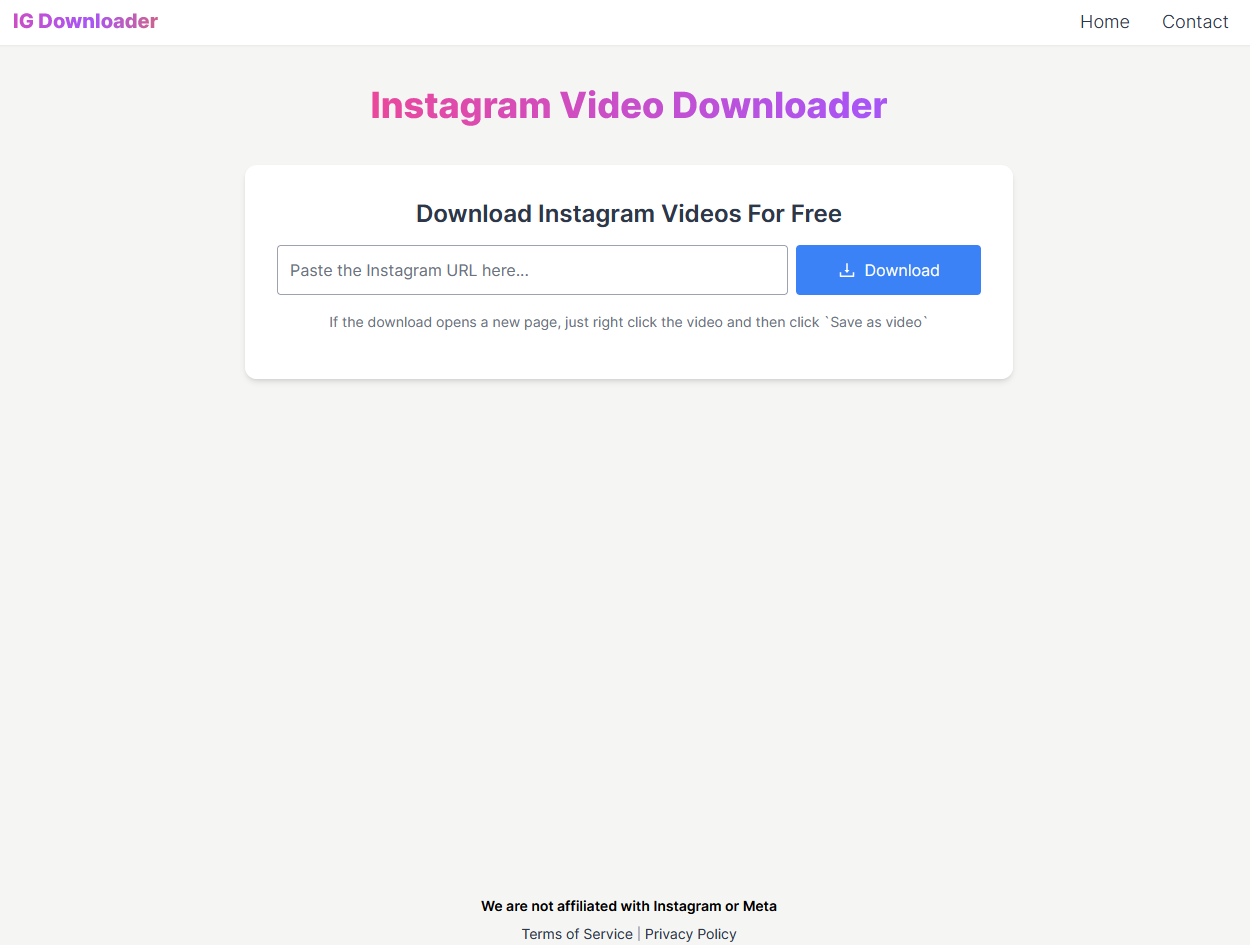
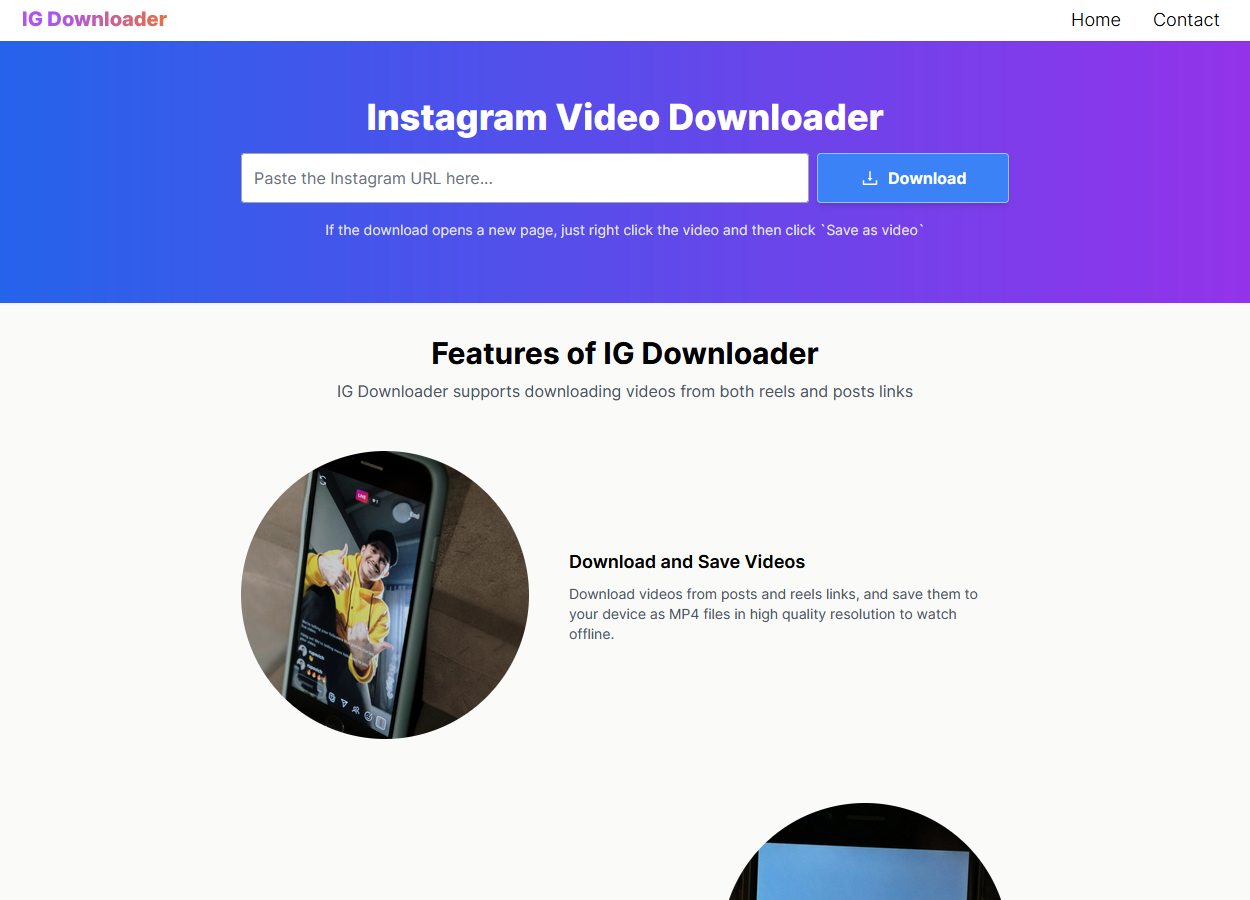
Update UI and Layout updates and changes to style.

diff --git a/src/app/page.tsx b/src/app/page.tsx
@@ -1,26 +1,223 @@
+import Image from "next/image";
+
 import InstagramForm from "@/components/instagram/InstagramForm";
 import { cn } from "@/utils";
 
 export default function HomePage() {
   return (
-    <main className="mx-auto flex w-full max-w-6xl flex-1 flex-col items-center gap-8">
-      <h1
+    <main className="flex w-full flex-1 flex-col items-center gap-8">
+      <div
+        id="#download"
         className={cn(
-          "py-2 text-center text-2xl font-extrabold sm:text-4xl",
-          "animate-rgb bg-gradient-to-r from-pink-500 via-purple-500 to-orange-500 bg-clip-text text-transparent"
+          "flex w-full flex-col items-center px-4 py-12 shadow-sm",
+          "bg-gradient-to-r from-blue-600 to-purple-600"
         )}
       >
-        Instagram Video Downloader
-      </h1>
-      <div className="mx-auto w-full max-w-3xl bg-white p-8 shadow-md md:rounded-xl">
-        <h2 className="mb-4 text-center text-lg font-semibold text-primary sm:text-2xl">
-          Download Instagram Videos For Free
-        </h2>
+        <h1
+          className={cn(
+            "py-2 text-center text-2xl font-extrabold text-white sm:text-4xl"
+          )}
+        >
+          Instagram Video Downloader
+        </h1>
         <InstagramForm />
-        <p className="my-4 text-center text-xs text-secondary md:text-sm">
+        <p className="my-4 text-center text-xs text-gray-200 md:text-sm">
           If the download opens a new page, just right click the video and then
           click `Save as video`
         </p>
+      </div>
+
+      <div className="container mx-auto flex w-full flex-col items-center">
+        <section id="#features" className="flex w-full flex-col items-center">
+          <header className="mb-12 flex w-full flex-col items-center text-center">
+            <h2 className="mb-2 text-xl font-bold md:text-3xl">
+              Features of IG Downloader
+            </h2>
+            <p className="text-gray-600">
+              IG Downloader supports downloading videos from both reels and
+              posts links
+            </p>
+          </header>
+
+          <div className="mb-16 flex w-full max-w-3xl flex-col items-center gap-2 md:flex-row md:gap-8">
+            <Image
+              src="/images/features/download.jpg"
+              width={0}
+              height={0}
+              sizes="100%"
+              quality={100}
+              alt="instagram"
+              className="h-72 w-full flex-shrink-0 object-cover md:w-72 md:rounded-full"
+            />
+            <div className="w-full px-2">
+              <h4 className="mb-2 text-lg font-semibold">
+                Download and Save Videos
+              </h4>
+              <p className="text-sm text-gray-600">
+                Download videos from posts and reels links, and save them to
+                your device as MP4 files in high quality resolution to watch
+                offline.
+              </p>
+            </div>
+          </div>
+          <div className="mb-16 flex w-full max-w-3xl flex-col items-center gap-2 md:flex-row md:gap-8">
+            <Image
+              src="/images/features/login.jpg"
+              width={0}
+              height={0}
+              sizes="100%"
+              quality={100}
+              alt="instagram"
+              className="h-72 w-full flex-shrink-0 object-cover md:order-2 md:w-72 md:rounded-full"
+            />
+            <div className="w-full px-2 md:order-1">
+              <h4 className="mb-2 text-lg font-semibold">
+                No Registration or Login Required
+              </h4>
+              <p className="text-sm text-gray-600">
+                No need to create an account or login to download videos. Just
+                copy the link, paste it in the box and click download.
+              </p>
+            </div>
+          </div>
+          <div className="flex w-full max-w-3xl flex-col items-center gap-2 md:flex-row md:gap-8">
+            <Image
+              src="/images/features/share.jpg"
+              width={0}
+              height={0}
+              sizes="100%"
+              quality={100}
+              alt="instagram"
+              className="h-72 w-full flex-shrink-0 object-cover md:w-72 md:rounded-full"
+            />
+            <div className="w-full px-2">
+              <h4 className="mb-2 text-lg font-semibold">
+                Share with Your Friends
+              </h4>
+              <p className="text-sm text-gray-600">
+                Download videos and save them on your device to share them with
+                your friends any time without the fear of losing your favorite
+                memes and funny videos.
+              </p>
+            </div>
+          </div>
+        </section>
+
+        <section
+          id="#what-is-ig-downloader"
+          className="my-12 flex w-full flex-col items-start px-4"
+        >
+          <h2 className="mb-2 text-lg font-semibold md:text-2xl">
+            What is IG Downloader
+          </h2>
+          <p className="text-sm md:text-base">
+            IG Downloader, an incredibly versatile tool, grants you the ability
+            to effortlessly download videos from Instagram posts and reels. With
+            its user-friendly interface and robust functionality, you can
+            seamlessly save these captivating videos to your device, ensuring
+            you always have access to your favorite Instagram content. This way,
+            you can easily share these videos with your friends or enjoy them
+            offline at your convenience, offering a delightful and flexible
+            Instagram experience tailored to your preferences.
+          </p>
+        </section>
+
+        <section
+          id="#how-to-use"
+          className="mb-12 flex w-full flex-col items-start px-4"
+        >
+          <h2 className="mb-2 text-lg font-semibold md:text-2xl">
+            How To Use IG Downloader
+          </h2>
+
+          <div>
+            <p className="mb-2">
+              <span className="font-bold">Step 1:</span>{" "}
+              <span className="text-sm">
+                First, go to Instagram and find the video that has captured your
+                attention, whether it&apos;s nestled within a post or part of an
+                engaging reel. Now, here&apos;s where the magic begins – simply
+                copy the video&apos;s link. You can achieve this by either
+                copying the link from your browser&apos;s URL bar or, for even
+                more convenience, click on those trusty three dots and select
+                &ldquo;Copy Link&ldquo;.
+              </span>
+            </p>
+            <p>
+              <span className="font-bold">Step 2:</span>{" "}
+              <span className="text-sm">
+                With the Instagram video link in your clipboard, head over to IG
+                Downloader and find the Input Box eagerly waiting for your
+                command. Paste the video link here with a simple Ctrl+V (or
+                Command+V for our Mac enthusiasts) and hit that
+                &ldquo;Download&ldquo; button.
+              </span>
+            </p>
+            <p className="mt-4 text-sm md:text-base">
+              And there you have it! With just these two straightforward steps,
+              you&apos;ve successfully summoned IG Downloader&apos;s wizardry to
+              save the desired video directly onto your device. Now, it&apos;s
+              ready to be shared with your friends, ensuring your social circle
+              can revel in the captivating content you&apos;ve discovered. Get
+              ready to embrace the world of hassle-free Instagram video
+              downloading!
+            </p>
+          </div>
+        </section>
+
+        <section
+          id="#why-ig-downloader-is-the-best"
+          className="mb-12 flex w-full flex-col items-start px-4"
+        >
+          <h2 className="mb-2 text-lg font-semibold md:text-2xl">
+            IG Downloader - The Best Instagram Video Downloader
+          </h2>
+          <p className="text-sm md:text-base">
+            IG Downloader is widely recognized as the premier Instagram video
+            downloader in the realm of digital tools and applications. This
+            exceptional software distinguishes itself by offering users the
+            remarkable ability to effortlessly download videos from both regular
+            posts and engaging reels links, enabling you to conveniently save
+            these captivating visual moments to your device in the universally
+            compatible MP4 format. What sets it apart even further is its
+            unwavering commitment to delivering content in the highest quality
+            resolution available, ensuring that you can enjoy your downloaded
+            videos offline, anytime, and, perhaps most impressively, all of this
+            comes at absolutely no cost to you.
+          </p>
+        </section>
+
+        <section
+          id="#can-be-used-on-mobile"
+          className="mb-12 flex w-full flex-col items-start px-4"
+        >
+          <h2 className="mb-2 text-lg font-semibold md:text-2xl">
+            Can I use IG Downloader on my Phone?
+          </h2>
+          <p className="text-sm md:text-base">
+            Certainly, you have the option to utilize the IG Downloader
+            application right from your smartphone, accessible through any web
+            browser of your choice. This convenient feature ensures that you can
+            easily access and use IG Downloader&apos;s functionality on your
+            mobile device, regardless of the browser you prefer to employ for
+            this purpose.
+          </p>
+        </section>
+
+        <section
+          id="#can-download-stories"
+          className="mb-12 flex w-full flex-col items-start px-4"
+        >
+          <h2 className="mb-2 text-lg font-semibold md:text-2xl">
+            Can I Download Stories on IG Downloader?
+          </h2>
+          <p className="text-sm md:text-base">
+            No, the action of downloading stories on IG Downloader is not
+            supported by the application due to its inherent limitations, as it
+            prioritizes user privacy and adheres to Instagram&pos;s policies and
+            security measures.
+          </p>
+        </section>
       </div>
     </main>
   );

diff --git a/src/components/instagram/InstagramForm.tsx b/src/components/instagram/InstagramForm.tsx
@@ -115,7 +115,10 @@ export default function InstagramForm() {
   }
 
   return (
-    <form className="flex flex-col items-center" onSubmit={handleSubmit}>
+    <form
+      className="flex w-full max-w-3xl flex-col items-center"
+      onSubmit={handleSubmit}
+    >
       <AlertError errorMsg={errorMsg} handleReset={() => setErrorMsg("")} />
       <div className="flex w-full flex-col items-center gap-2 md:flex-row">
         <InputField
@@ -128,7 +131,7 @@ export default function InstagramForm() {
           onChange={(e) => setPostUrl(e.target.value)}
           isLoading={isLoading}
           handleClear={handleClear}
-          className="h-[50px] w-full rounded border-gray-400 text-sm md:text-base"
+          className="h-[50px] w-full rounded border-gray-400 text-sm focus:ring-white md:text-base"
           autoComplete="on"
           autoFocus
           required

diff --git a/src/components/ui/InputField.tsx b/src/components/ui/InputField.tsx
@@ -32,8 +32,11 @@ const InputField = (props: InputFieldProps) => {
             type="button"
             aria-label="Clear URL input"
             onClick={handleClear}
-            className="flex items-center rounded bg-gray-500 p-2 text-white"
             {...clearBtnProps}
+            className={cn(
+              "flex items-center rounded bg-gray-500/80 p-2 text-white",
+              clearBtnProps?.className
+            )}
           >
             <MdClear className="text-xl" />
             <span className="text-sm font-light">Clear</span>

diff --git a/src/components/ui/DownloadButton.tsx b/src/components/ui/DownloadButton.tsx
@@ -13,9 +13,11 @@ const DownloadButton = (props: DownloadButtonProps) => {
       disabled={isLoading}
       {...buttonProps}
       className={cn(
-        "flex items-center justify-center gap-2 rounded p-3",
+        "flex items-center justify-center gap-2 rounded p-3 font-bold shadow-md",
         "h-[50px] w-full md:w-[250px]",
+        "border border-blue-300",
         "bg-blue-500 text-white hover:bg-blue-600",
+        "transition-colors duration-200 ease-in-out",
         className
       )}
     >

diff --git a/src/components/Navbar.tsx b/src/components/Navbar.tsx
@@ -49,9 +49,9 @@ const Navbar = () => {
     <nav
       ref={navbarRef}
       className={cn(
-        "fixed left-0 right-0 top-0 w-full items-center justify-between bg-white",
+        "z-50 w-full items-center justify-between bg-white",
         "flex flex-col md:flex-row md:px-4",
-        openNav ? "rounded-none shadow-none" : "rounded-b-lg shadow-sm"
+        openNav ? "shadow-none" : "shadow-sm"
       )}
     >
       <div className="flex w-full items-center justify-between px-2">

diff --git a/src/app/layout.tsx b/src/app/layout.tsx
@@ -22,9 +22,8 @@ export default function RootLayout({
     <html lang="en">
       <body
         className={cn(
-          "overflow-x-hidden bg-stone-100 text-black",
+          "overflow-x-hidden bg-stone-50 text-black",
           "flex min-h-screen w-full flex-col justify-between",
-          "pt-20", // Spacing For Navbar
           mainFont.className
         )}
       >
